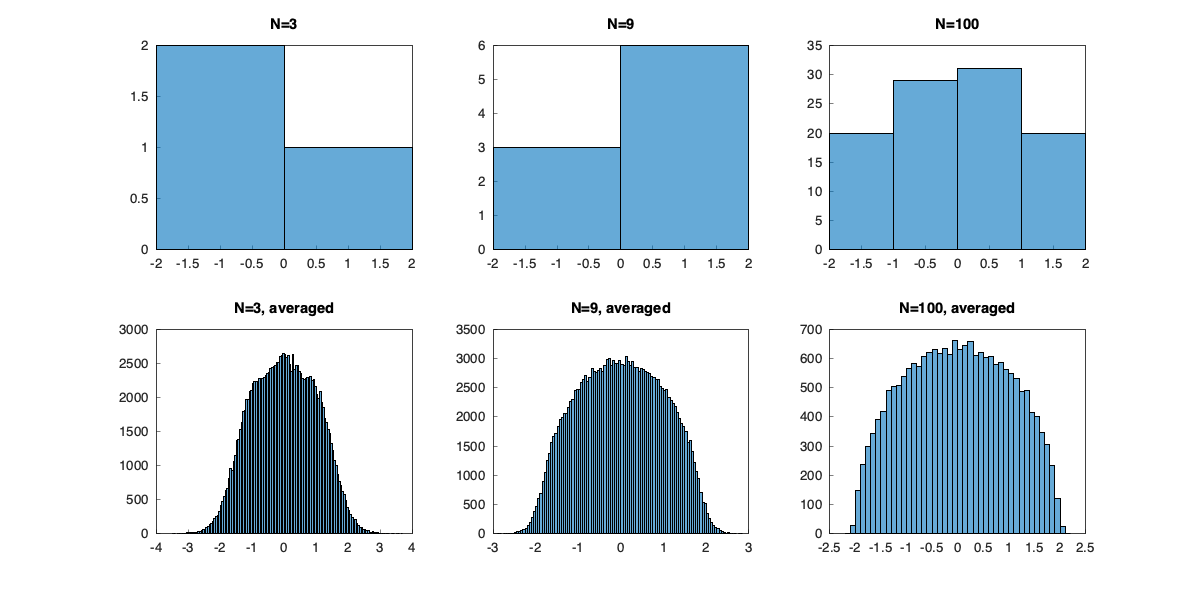
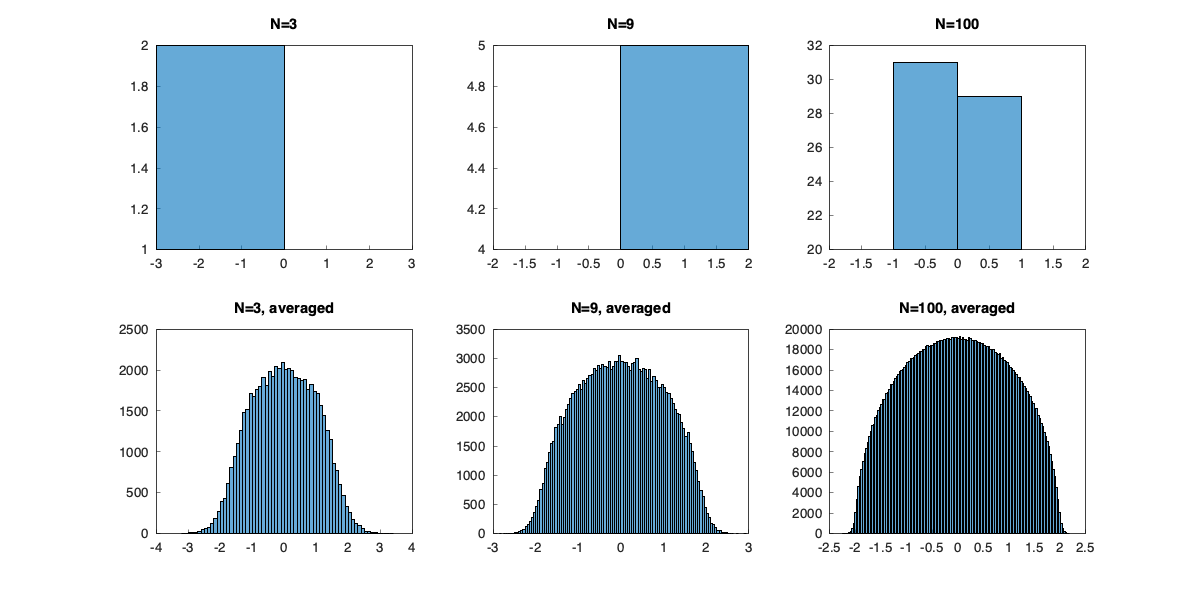
optimized eigendist code, 2s

diff --git a/eigendist.cpp b/eigendist.cpp
@@ -5,17 +5,18 @@
 #include <matplot/matplot.h>
 #include <vector>
 #include <cmath>
+#include <chrono>
+#include <omp.h>
 
-using Eigen::MatrixXd;
+using Eigen::MatrixXf;
 
-std::mt19937 rng(101);
-std::normal_distribution<double> gaussian(0.0, 1.0);
-
-MatrixXd selfadjoint(MatrixXd mat, int size) {
+MatrixXf selfadjoint(int size, std::mt19937& rng) {
+    MatrixXf mat(size, size);
+    std::normal_distribution<float> gaussian(0.0, 1.0);
     for (int i = 0; i < size; i++) {
         mat(i, i) = gaussian(rng);
         for (int j = i + 1; j < size; j++) {
-            double val = gaussian(rng);
+            float val = gaussian(rng);
             mat(i, j) = val;
             mat(j, i) = val;
         }
@@ -23,32 +24,42 @@ MatrixXd selfadjoint(MatrixXd mat, int size) {
     return mat;
 }
 
-std::vector<double> get_eigenvalues(int N) {
-    MatrixXd m(N, N);
-    m = selfadjoint(m, N);
-    m /= std::sqrt((double)N);
-    Eigen::SelfAdjointEigenSolver<MatrixXd> solver(m);
-    std::vector<double> eigs(solver.eigenvalues().data(), solver.eigenvalues().data() + N);
+std::vector<float> get_eigenvalues(int N, std::mt19937& rng) {
+    MatrixXf m = selfadjoint(N, rng);
+    m /= std::sqrt((float)N);
+    Eigen::SelfAdjointEigenSolver<MatrixXf> solver(m);
+    std::vector<float> eigs(solver.eigenvalues().data(),
+                            solver.eigenvalues().data() + N);
     return eigs;
 }
 
-std::vector<double> get_pooled_eigenvalues(int size, int num_simulations) {
-    std::vector<double> pooled;
-    for (int k = 0; k < num_simulations; k++) {
-        auto eigs = get_eigenvalues(size);
-        pooled.insert(pooled.end(), eigs.begin(), eigs.end());
+std::vector<float> get_pooled_eigenvalues(int size, int num_simulations) {
+    std::vector<float> pooled(num_simulations * size);
+
+    #pragma omp parallel
+    {
+        std::mt19937 rng(42 + omp_get_thread_num() * 1000);
+
+        #pragma omp for schedule(dynamic, 32)
+        for (int k = 0; k < num_simulations; k++) {
+            auto eigs = get_eigenvalues(size, rng);
+            std::copy(eigs.begin(), eigs.end(), pooled.begin() + k * size);
+        }
     }
     return pooled;
 }
 
 int main() {
-    std::vector<double> eigen3    = get_eigenvalues(3);
-    std::vector<double> eigen9    = get_eigenvalues(9);
-    std::vector<double> eigen100  = get_eigenvalues(100);
+    auto start = std::chrono::high_resolution_clock::now();
 
-    std::vector<double> eigen3avg   = get_pooled_eigenvalues(3, 50000);
-    std::vector<double> eigen9avg   = get_pooled_eigenvalues(9, 20000);
-    std::vector<double> eigen100avg = get_pooled_eigenvalues(100, 200);
+    std::mt19937 rng_single(42);
+    std::vector<float> eigen3 = get_eigenvalues(3, rng_single);
+    std::vector<float> eigen9 = get_eigenvalues(9, rng_single);
+    std::vector<float> eigen100 = get_eigenvalues(100, rng_single);
+
+    std::vector<float> eigen3avg = get_pooled_eigenvalues(3,   20000);
+    std::vector<float> eigen9avg = get_pooled_eigenvalues(9,   20000);
+    std::vector<float> eigen100avg = get_pooled_eigenvalues(100, 20000);
 
     auto f = matplot::figure();
     f->size(1200, 600);
@@ -84,5 +95,10 @@ int main() {
     ax6->hist(eigen100avg);
     ax6->title("N=100, averaged");
 
+    auto end = std::chrono::high_resolution_clock::now();
+    std::chrono::duration<float> elapsed = end - start;
+    std::cout << "Total runtime: " << elapsed.count() << " seconds\n";
+
     matplot::save("eigenplot.png");
+    matplot::show();
 }